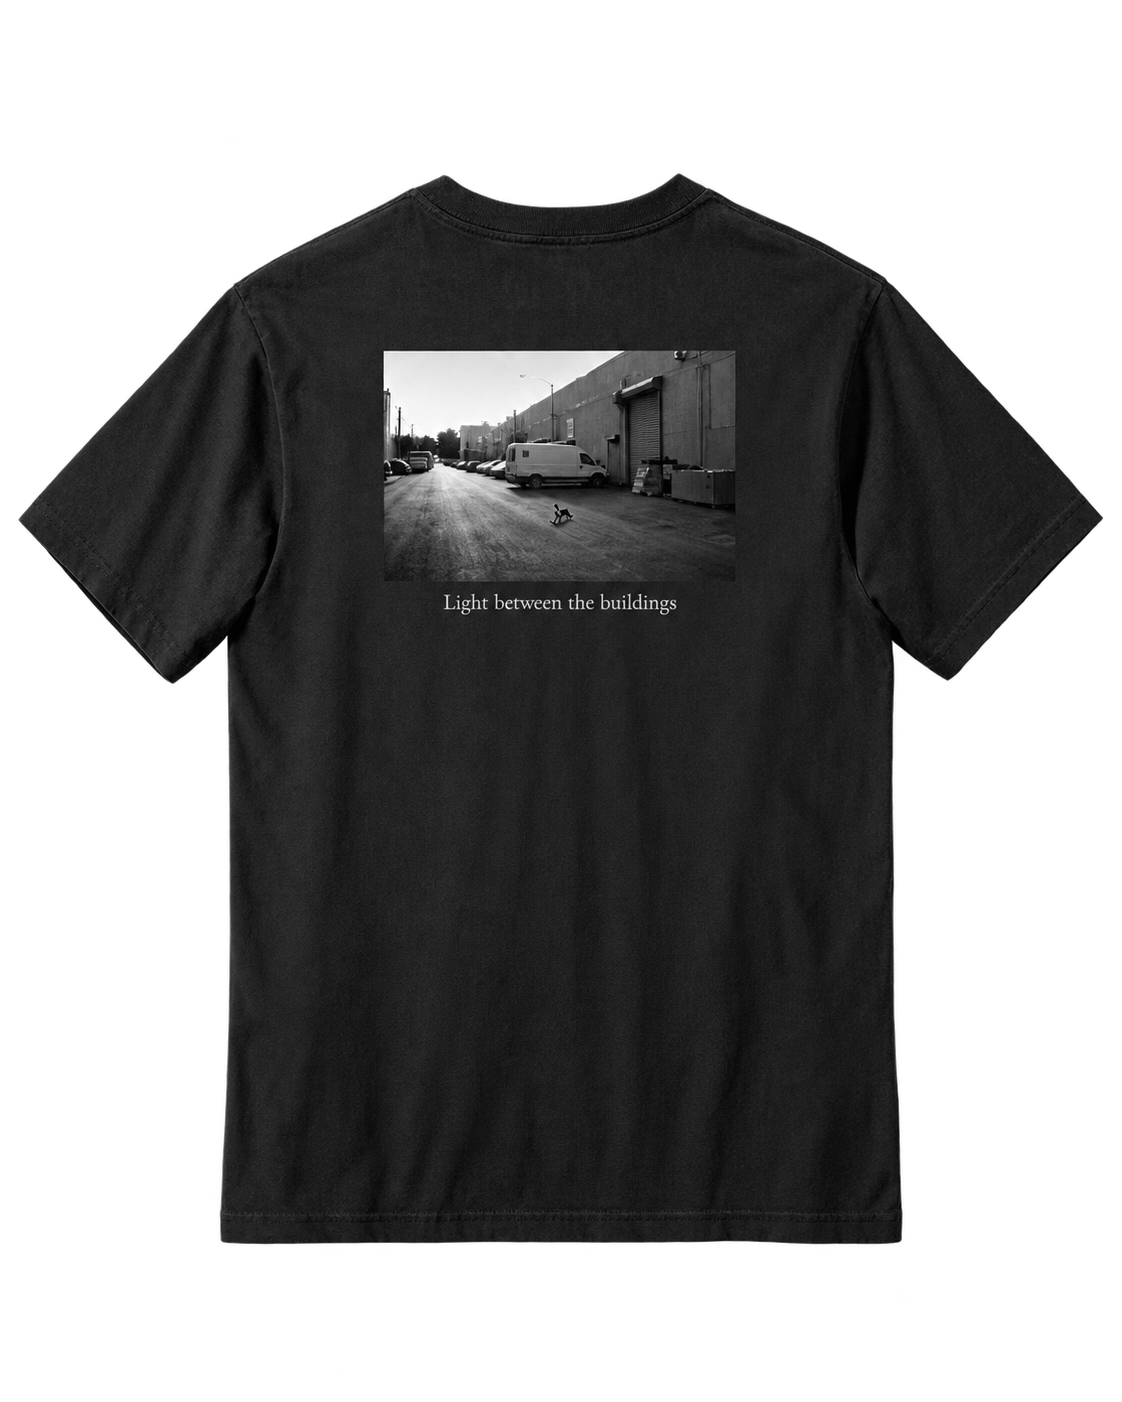
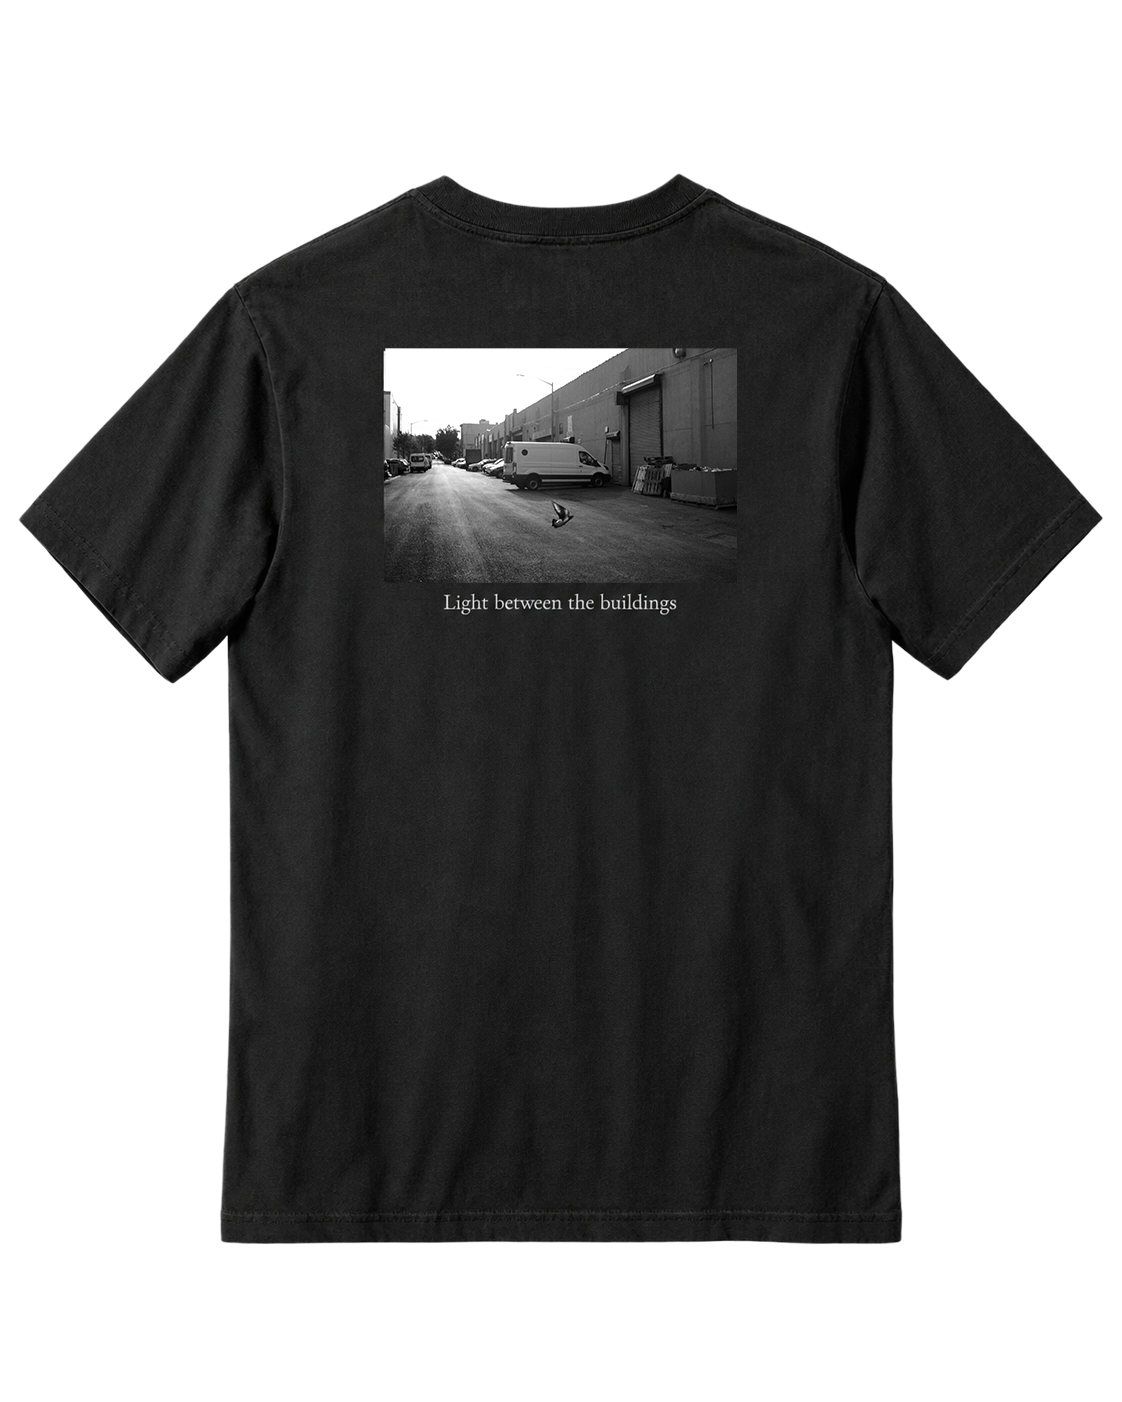
Add files via upload

Changed region(s): [[0.3431, 0.2454, 0.6551, 0.4294]]

diff --git a/Summer/script.js b/Summer/script.js
@@ -280,39 +280,84 @@ document.addEventListener("keydown", (event) => {
 });
 
 /* ==================================================
-   TEE PREVIEW — FRONT + BACK
+   TEE PREVIEW — NUMBERED SHIRTS
    ================================================== */
 
 const teePreviewModal = document.getElementById("tee-preview-modal");
 const teePreviewTriggers = document.querySelectorAll("[data-tee-preview]");
 const teePreviewCloseButtons = document.querySelectorAll("[data-tee-close]");
-const summerTeeMainImage = document.getElementById("summer-tee-main-image");
 const summerWearablesSection = document.getElementById("wearables");
+const teePreviewFront = document.getElementById("tee-preview-front");
+const teePreviewBack = document.getElementById("tee-preview-back");
+const teePreviewTitle = document.getElementById("tee-preview-title");
 
 function setupSummerTeeAvailability() {
-    if (!summerTeeMainImage || !summerWearablesSection) return;
+    if (!summerWearablesSection) return;
 
-    const showSection = () => {
-        summerWearablesSection.classList.remove("is-empty");
-        summerWearablesSection.setAttribute("aria-hidden", "false");
-    };
-
-    const hideSection = () => {
+    const items = [...summerWearablesSection.querySelectorAll("[data-tee-item]")];
+    if (!items.length) {
         summerWearablesSection.classList.add("is-empty");
         summerWearablesSection.setAttribute("aria-hidden", "true");
+        return;
+    }
+
+    let resolved = 0;
+
+    const finishCheck = () => {
+        resolved += 1;
+        if (resolved < items.length) return;
+
+        const visibleItems = items.filter((item) => !item.classList.contains("is-missing"));
+        const hasAny = visibleItems.length > 0;
+        summerWearablesSection.classList.toggle("is-empty", !hasAny);
+        summerWearablesSection.setAttribute("aria-hidden", hasAny ? "false" : "true");
     };
 
-    summerTeeMainImage.addEventListener("load", showSection, { once: true });
-    summerTeeMainImage.addEventListener("error", hideSection, { once: true });
+    items.forEach((item) => {
+        const image = item.querySelector(".summer-tee-main-image");
+        if (!image) {
+            item.classList.add("is-missing");
+            finishCheck();
+            return;
+        }
 
-    if (summerTeeMainImage.complete) {
-        if (summerTeeMainImage.naturalWidth > 0) showSection();
-        else hideSection();
-    }
+        const ok = () => {
+            item.classList.remove("is-missing");
+            finishCheck();
+        };
+
+        const fail = () => {
+            item.classList.add("is-missing");
+            finishCheck();
+        };
+
+        if (image.complete) {
+            image.naturalWidth > 0 ? ok() : fail();
+        } else {
+            image.addEventListener("load", ok, { once: true });
+            image.addEventListener("error", fail, { once: true });
+        }
+    });
 }
 
-function openTeePreview() {
+function openTeePreview(trigger) {
     if (!teePreviewModal || summerWearablesSection?.classList.contains("is-empty")) return;
+
+    const front = trigger?.dataset?.teeFront;
+    const back = trigger?.dataset?.teeBack;
+    const title = trigger?.dataset?.teeTitle || "PROJECT TEE";
+
+    if (front && teePreviewFront) {
+        teePreviewFront.src = front;
+        teePreviewFront.alt = `${title} front`;
+    }
+
+    if (back && teePreviewBack) {
+        teePreviewBack.src = back;
+        teePreviewBack.alt = `${title} back`;
+    }
+
+    if (teePreviewTitle) teePreviewTitle.textContent = title;
 
     teePreviewModal.classList.add("is-visible");
     teePreviewModal.setAttribute("aria-hidden", "false");
@@ -328,13 +373,13 @@ function closeTeePreview() {
 }
 
 teePreviewTriggers.forEach((trigger) => {
-    trigger.addEventListener("click", openTeePreview);
+    trigger.addEventListener("click", () => openTeePreview(trigger));
 
     if (trigger.matches("[role='button']")) {
         trigger.addEventListener("keydown", (event) => {
             if (event.key === "Enter" || event.key === " ") {
                 event.preventDefault();
-                openTeePreview();
+                openTeePreview(trigger);
             }
         });
     }

diff --git a/Summer/index.html b/Summer/index.html
@@ -112,17 +112,50 @@
 <h2>WEARABLES</h2>
 </header>
 <div class="wearable-gallery-v2">
-<div class="wearable-stage-v2">
-<article class="wearable-visual-v2" data-tee-preview role="button" tabindex="0" aria-label="View Somewhere to Be tee front and back">
-<img id="summer-tee-main-image" alt="Somewhere to Be project tee back" src="images/wearables/shirt-back.png"/>
-</article>
+<div class="wearable-products-v2">
+<article class="wearable-item-v2" data-tee-item>
+<div class="wearable-visual-v2"
+     data-tee-preview
+     data-tee-title="PROJECT TEE 01"
+     data-tee-front="images/wearables/shirt-front-01.png"
+     data-tee-back="images/wearables/shirt-back-01.png"
+     role="button" tabindex="0"
+     aria-label="View Somewhere to Be tee 01 front and back">
+<img class="summer-tee-main-image" alt="Somewhere to Be project tee 01 back" src="images/wearables/shirt-back-01.png"/>
+</div>
 <div class="wearable-meta-v2">
-<p class="product-name">PROJECT TEE</p>
+<p class="product-name">PROJECT TEE 01</p>
 <p class="product-details">SOMEWHERE TO BE</p>
-<button class="product-link" type="button" data-tee-preview>VIEW TEE →</button>
+<button class="product-link" type="button"
+        data-tee-preview
+        data-tee-title="PROJECT TEE 01"
+        data-tee-front="images/wearables/shirt-front-01.png"
+        data-tee-back="images/wearables/shirt-back-01.png">VIEW TEE →</button>
+</div>
+</article>
+
+<article class="wearable-item-v2" data-tee-item>
+<div class="wearable-visual-v2"
+     data-tee-preview
+     data-tee-title="PROJECT TEE 02"
+     data-tee-front="images/wearables/shirt-front-02.png"
+     data-tee-back="images/wearables/shirt-back-02.png"
+     role="button" tabindex="0"
+     aria-label="View Somewhere to Be tee 02 front and back">
+<img class="summer-tee-main-image" alt="Somewhere to Be project tee 02 back" src="images/wearables/shirt-back-02.png"/>
+</div>
+<div class="wearable-meta-v2">
+<p class="product-name">PROJECT TEE 02</p>
+<p class="product-details">SOMEWHERE TO BE</p>
+<button class="product-link" type="button"
+        data-tee-preview
+        data-tee-title="PROJECT TEE 02"
+        data-tee-front="images/wearables/shirt-front-02.png"
+        data-tee-back="images/wearables/shirt-back-02.png">VIEW TEE →</button>
+</div>
+</article>
 </div>
 <div class="wearable-shelf-v2" aria-hidden="true"></div>
-</div>
 </div>
 </section>
 <section class="shop-section objects-section" data-optional-products="">
@@ -203,23 +236,21 @@
     <div class="tee-preview-dialog" role="dialog" aria-modal="true" aria-labelledby="tee-preview-title">
         <div class="tee-preview-images">
             <figure class="tee-preview-side">
-                <img src="images/wearables/shirt-front.png" alt="Somewhere to Be project tee front">
+                <img id="tee-preview-front" src="images/wearables/shirt-front-01.png" alt="Somewhere to Be project tee front">
                 <figcaption>FRONT</figcaption>
             </figure>
 
             <figure class="tee-preview-side">
-                <img src="images/wearables/shirt-back.png" alt="Somewhere to Be project tee back">
+                <img id="tee-preview-back" src="images/wearables/shirt-back-01.png" alt="Somewhere to Be project tee back">
                 <figcaption>BACK</figcaption>
             </figure>
         </div>
 
         <div class="tee-preview-info">
             <div>
-                <p class="tee-preview-title" id="tee-preview-title">PROJECT TEE</p>
+                <p class="tee-preview-title" id="tee-preview-title">PROJECT TEE 01</p>
                 <p class="tee-preview-project">SOMEWHERE TO BE</p>
             </div>
-
-            <a class="tee-preview-next" href="wearables/project-tee.html">VIEW TEE PAGE →</a>
         </div>
     </div>
 

diff --git a/Summer/style.css b/Summer/style.css
@@ -2033,3 +2033,68 @@ body.tee-preview-open {
         height: 48px;
     }
 }
+
+
+/* ==================================================
+   WEARABLES — NUMBERED TWO-SHIRT DISPLAY
+   ================================================== */
+
+.wearable-gallery-v2 {
+    width: min(900px, 86vw);
+}
+
+.wearable-products-v2 {
+    display: grid;
+    grid-template-columns: repeat(2, minmax(0, 1fr));
+    gap: clamp(42px, 7vw, 92px);
+    align-items: end;
+}
+
+.wearable-item-v2 {
+    min-width: 0;
+    display: flex;
+    flex-direction: column;
+    align-items: center;
+}
+
+.wearable-item-v2.is-missing {
+    display: none;
+}
+
+.wearable-visual-v2 {
+    width: min(300px, 31vw);
+}
+
+.wearable-meta-v2 {
+    width: min(300px, 31vw);
+    margin-top: 20px;
+}
+
+.wearable-shelf-v2 {
+    width: min(800px, 82vw);
+    margin-top: 24px;
+}
+
+@media (max-width: 700px) {
+    .wearable-gallery-v2 {
+        width: 92vw;
+    }
+
+    .wearable-products-v2 {
+        gap: 18px;
+    }
+
+    .wearable-visual-v2,
+    .wearable-meta-v2 {
+        width: min(40vw, 190px);
+    }
+
+    .wearable-meta-v2 {
+        margin-top: 14px;
+    }
+
+    .wearable-shelf-v2 {
+        width: 88vw;
+        margin-top: 18px;
+    }
+}
